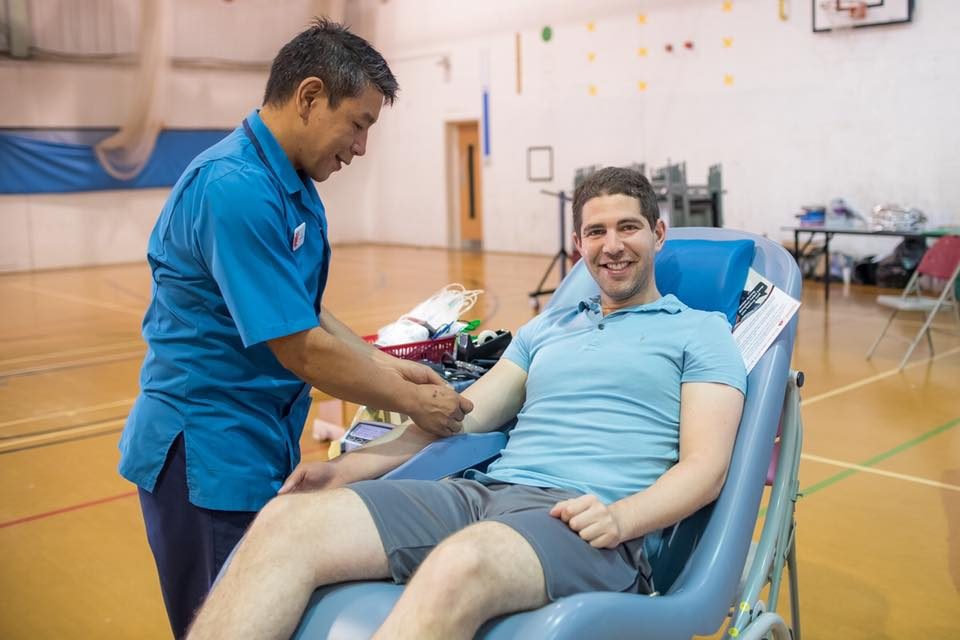
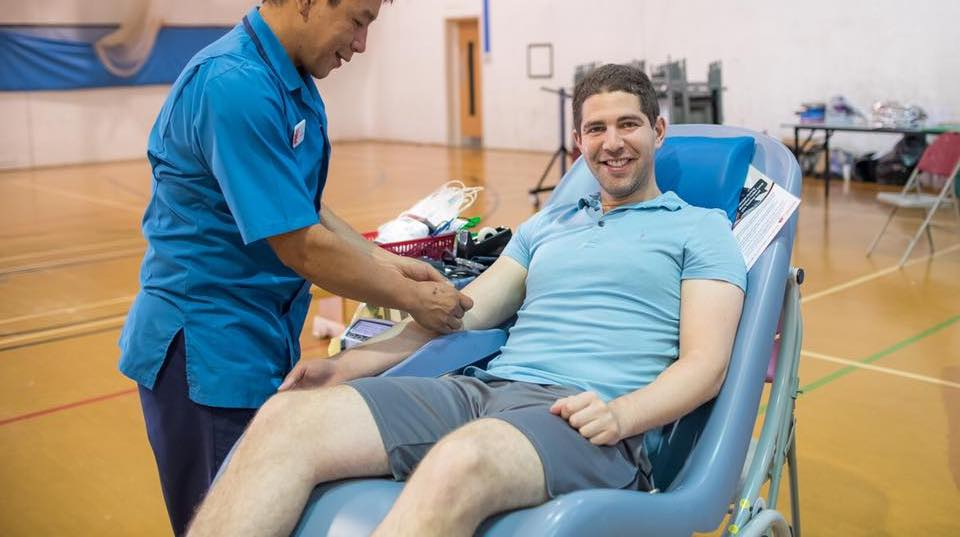
fix href and crop cover photo

diff --git a/index.html b/index.html
@@ -20,7 +20,7 @@ nav-weight: 10
             <div class="carousel-caption">
               <h1>Save Lives This Mitzvah Day!</h1>
               <p>This Mitzvah Day, The Joely Bear Appeal would like to invite you to Give Blood and Save Lives!</p>
-              <a class="btn btn-lg btn-primary" href="md2017" role="button">Read more</a>
+              <a class="btn btn-lg btn-primary" href="Mitzvah-Day-2017" role="button">Read more</a>
             </div>
           </div>
         </div>
